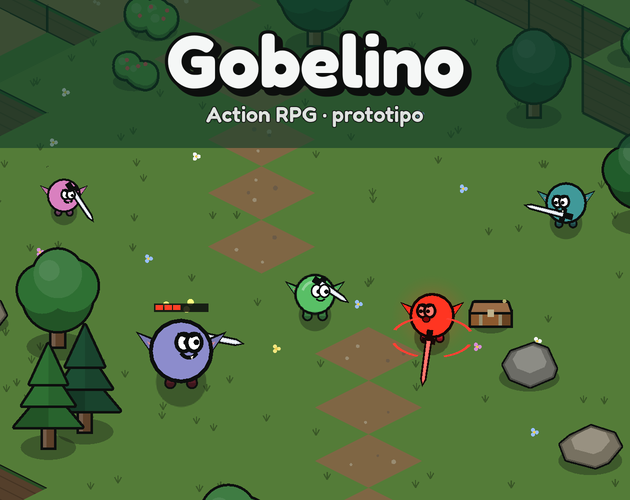
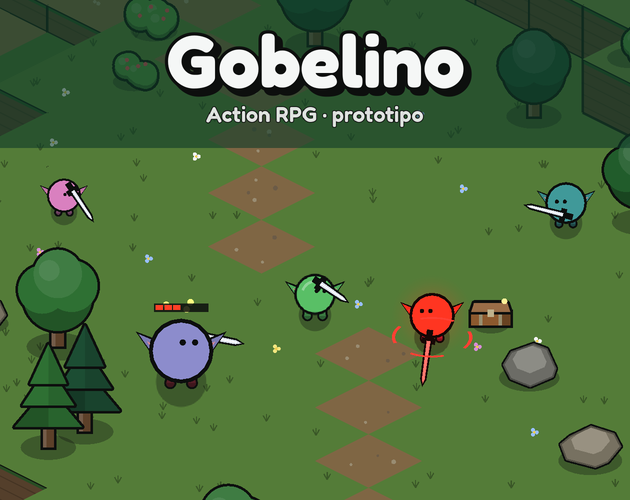
Devlog: livelli più rapidi e scorte ribilanciate nei due giochi, nuovo volto di Gobelino
Voci in italiano e in inglese per Ciccio Massacro e Gobelino e copertine
della home aggiornate (copie di store/itch/cover_*.png dei giochi).

Claude-Session: https://claude.ai/code/session_01CG3rgCETGD3Z8TUXSxCuJ2

diff --git a/public/assets/devlog.js b/public/assets/devlog.js
@@ -14,6 +14,50 @@ export const PROGETTI = {
 
 export const DEVLOG = [
   {
+    id: "2026-11-07-ciccio-livelli-scorte",
+    data: "2026-11-07",
+    progetto: "ciccio",
+    titolo: { it: "Livelli più rapidi e scorte ribilanciate", en: "Faster levels and rebalanced supplies" },
+    punti: {
+      it: [
+        "Si sale di livello più in fretta: serve circa un terzo di esperienza in meno per ogni livello. I salvataggi tengono la stessa parte del livello già fatta.",
+        "La vita torna a essere una barra continua, come batteria e carburante.",
+        "Il bazooka, lo slam e i colpi potenti consumano circa il 40% di carburante in meno. Predoni e casse lasciano più taniche e batterie di ricambio e meno kit medici.",
+        "Nel browser, quando la batteria si scarica, Ciccio usa da solo una batteria di ricambio, se ne ha una.",
+        "Salendo di livello con una bomba H, la scelta dei potenziamenti aspetta che l'esplosione sia finita.",
+      ],
+      en: [
+        "You level up faster: each level needs about a third less experience. Saves keep the same share of the level you'd already done.",
+        "Health is a continuous bar again, like battery and fuel.",
+        "The bazooka, slams and power strikes use about 40% less fuel. Raiders and crates drop more fuel cans and spare batteries and fewer medkits.",
+        "In the browser, when the battery runs flat, Cheech uses a spare battery by himself, if he has one.",
+        "When an H-bomb levels you up, the upgrade choice waits for the explosion to finish.",
+      ],
+    },
+  },
+  {
+    id: "2026-11-07-gobelino-livelli-pozioni",
+    data: "2026-11-07",
+    progetto: "gobelino",
+    titolo: { it: "Livelli più rapidi, pozioni ribilanciate e un nuovo volto", en: "Faster levels, rebalanced potions and a new face" },
+    punti: {
+      it: [
+        "Si sale di livello più in fretta: serve circa un terzo di esperienza in meno per ogni livello. I salvataggi tengono la stessa parte del livello già fatta.",
+        "La vita torna a essere una barra continua, come vigore e mana.",
+        "La palla di fuoco, lo slam e i colpi potenti consumano circa il 40% di mana in meno. Nemici e forzieri lasciano più pozioni di mana e di vigore e meno pozioni di vita.",
+        "Il goblin e tutti i nemici, non morti e ghoul compresi, hanno un volto nuovo: solo due occhi piccoli e neri, senza bocca.",
+        "Nel browser, quando il vigore finisce, il goblin beve da solo una pozione verde, se ne ha una. Salendo di livello con una runa del cataclisma, la scelta dei potenziamenti aspetta che l'esplosione sia finita.",
+      ],
+      en: [
+        "You level up faster: each level needs about a third less experience. Saves keep the same share of the level you'd already done.",
+        "Health is a continuous bar again, like stamina and mana.",
+        "The fireball, slams and power strikes use about 40% less mana. Enemies and chests drop more mana and stamina potions and fewer health potions.",
+        "The goblin and every enemy, undead and ghouls included, have a new face: just two small black eyes, no mouth.",
+        "In the browser, when stamina runs out, the goblin drinks a green potion by himself, if he has one. When a Cataclysm rune levels you up, the upgrade choice waits for the explosion to finish.",
+      ],
+    },
+  },
+  {
     id: "2026-11-07-ciccio-colpi-missioni",
     data: "2026-11-07",
     progetto: "ciccio",
